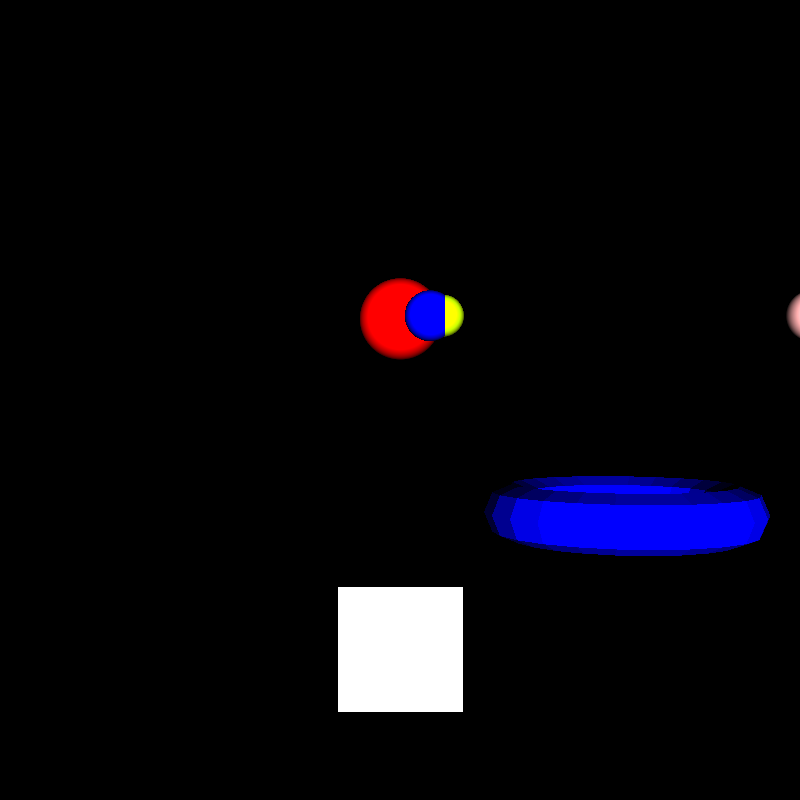
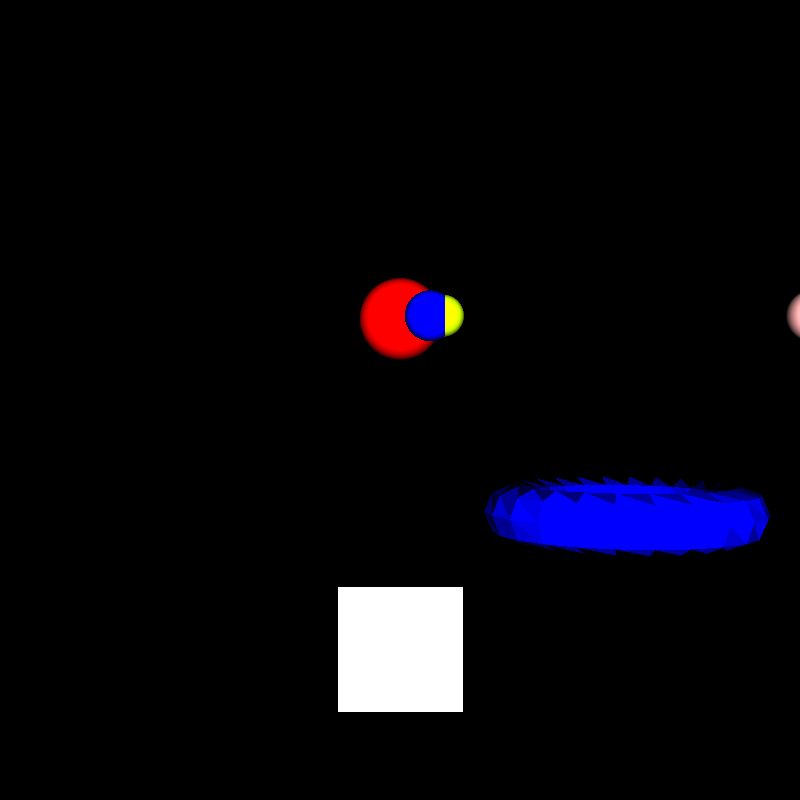
smooth-p3

diff --git a/src/edu/up/isgc/raytracer/tools/OBJReader.java b/src/edu/up/isgc/raytracer/tools/OBJReader.java
@@ -81,14 +81,20 @@ public class OBJReader {
                         for (int i = 0; i < faceVertex.size(); i++) {
                             triangleVertices[i] = (vertices.get(faceVertex.get(i) - 1));
                         }
-                        //Vector3D[] verticesNormals = new Vector3D[]{normals.get(faceNormal.get(0) - 1)};
-                        //triangles.add(new Triangle(triangleVertices, verticesNormals));
+                        
+                                              
+                        Vector3D[] verticesNormals = new Vector3D[]{normals.get(faceNormal.get(0) - 1)};
+                        for (Vector3D vector3d : verticesNormals) {
+							System.out.println(vector3d.toString());
+						}
+                        
+                        triangles.add(new Triangle(triangleVertices, verticesNormals));
                         
                         if(groupDetected) {
                         	smoothGroups.get(currentGroup).add(new Triangle(triangleVertices[1], triangleVertices[0], triangleVertices[2]));
                         }
                         
-                        triangles.add(new Triangle(triangleVertices[1], triangleVertices[0], triangleVertices[2]));
+                        //triangles.add(new Triangle(triangleVertices[1], triangleVertices[0], triangleVertices[2]));
                         if (faceVertex.size() == 4) {
                             triangles.add(new Triangle(triangleVertices[2], triangleVertices[0], triangleVertices[3]));
                         }
